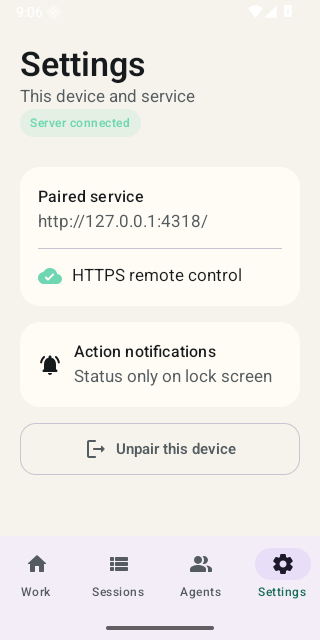
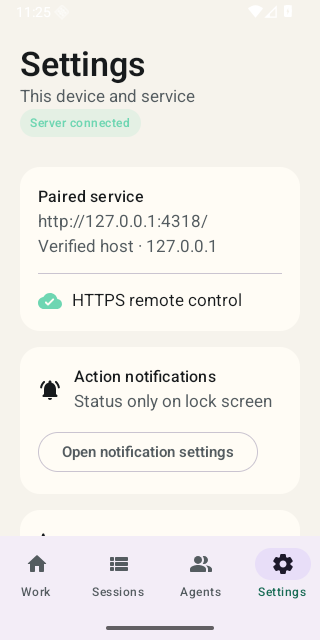
docs(mobile): capture complete native settings evidence

diff --git a/spec/STATUS.md b/spec/STATUS.md
@@ -72,7 +72,7 @@ planned without reopening a narrower completed row.
 | A-DESKTOP-WA | Governed Workspaces and artifacts | accepted | accepted | documented | partial | partial | active | Complete remaining accessibility/package matrices. Session detach has an idempotent durable receipt and restart-safe projection; global revoke journals a manifest-v2 tombstone and retries Keychain cleanup after restart. Artifact export now journals only bounded opaque pending IDs, removes the exact interrupted temporary when its directory is next explicitly authorized, preserves unrelated files, and never persists or exposes a path. Immutable receipt-bound Artifact projection, digest-verified preview and one-shot no-overwrite export are implemented, and the real SQLite approval-to-file-to-Artifact flow passes. |
 | A-DESKTOP-VE | Desktop visual, journey and manual evidence | accepted | accepted | documented | missing | missing | active | Execute the stable M01–M85 full-function capture matrix on the candidate package, close visual defects, emit a digest-bound safe screenshot manifest, and deliver/replay the comprehensive versioned user manual on a clean supported Mac. Deterministic fixtures may prove presentation only, never product behavior. |
 | A-MOBILE | KMP/Android/iOS shells | accepted | accepted | documented | implemented | verified | done | Keep KMP real-loopback transport, XCFramework, Swift, Android SDK 36 APK and API 36 Compose instrumentation gates green; remote physical-device connectivity is not claimed. |
-| A-MOBILE-R | Native remote-work mobile product | accepted | accepted | documented | implemented | partial | active | KMP controller, secure pairing, native Compose/SwiftUI product, installable builds, Gateway/private APNs/FCM wake paths, complete user guide, real native loopback actions, offline/reconnect, semantic icon navigation, and dark/200%-equivalent type evidence are verified locally. Settings includes persistent theme, system notification controls, verified host and safe build/device diagnostics. Close only with physical iOS/Android Gateway-to-Runtime create/reconnect/background/wake/decision/cancel/revoke evidence. |
+| A-MOBILE-R | Native remote-work mobile product | accepted | accepted | documented | implemented | partial | active | KMP controller, secure pairing, native Compose/SwiftUI product, installable builds, Gateway/private APNs/FCM wake paths, complete 23-screenshot user guide, real native loopback actions, offline/reconnect, semantic icon navigation, and dark/200%-equivalent type evidence are verified locally. Settings includes persistent theme, system notification controls, verified host and safe build/device diagnostics. Android Keystore and Apple Keychain tests prove grants are absent from preferences, clear makes them unrecoverable and unpair rotates device identity. Close only with physical iOS/Android Gateway-to-Runtime create/reconnect/background/wake/decision/cancel/revoke evidence. |
 | A-UX1-A | Shared product controller | accepted | accepted | documented | implemented | verified | done | Keep exact TypeScript/KMP fixture parity, strict fixture readers, Host projection, correlation, mutation, reconnect, activity, preference and native XCFramework gates green. |
 | A-UX1 | Product client experience | accepted | accepted | partial | partial | partial | active | UX-A and Desktop UX-B are complete: the work surface now runs through the shared controller with exact create/start/cancel/text-or-boolean continuation commands, atomic bounded preference/pending recovery, restart-safe multi-turn evidence, keyboard/focus/contrast/reduced-motion checks, 200% zoom and 320px reflow. Close UX-C shared Web/native UI plus remaining localization and physical-device accessibility matrices. |
 | G0 | Go Gateway | accepted | accepted | documented | implemented | verified | done | Keep TLS-only edge composition, one-time device pairing, route/header admission, SSE passthrough, expiry/revocation and race tests green; durable multi-instance grants are a later slice. |
